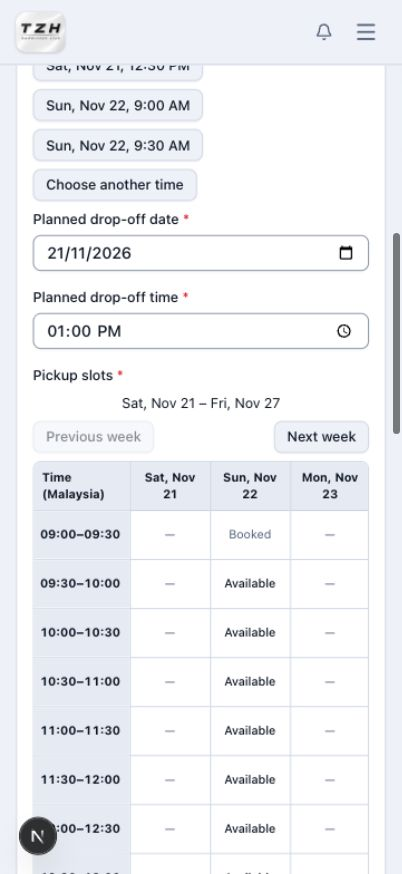
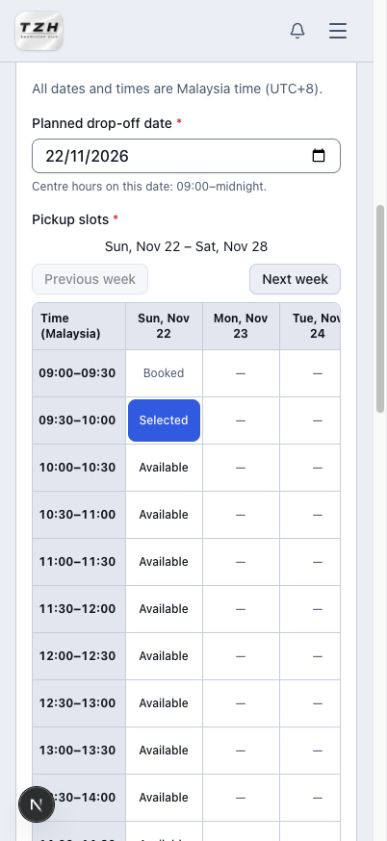
docs: show date-only drop-off and opening hours

diff --git a/website/customer-stringing.md b/website/customer-stringing.md
@@ -44,11 +44,11 @@ If a photo is unavailable, the name and price remain selectable.
 
 ![Required specifications and grommet price](../images/stringing/customer-required-specification.png)
 
-Under **Timing**, select a **Planned drop-off**. Use **Choose another time** if you need a different drop-off. Choose one of the available **Pickup slots**, using **Next week** to see more dates. On a phone, swipe the table sideways to see later days.
+Under **Timing**, choose a **Planned drop-off date**. The opening hours for that date appear below it. Choose one of the available **Pickup slots**, using **Next week** to see more dates. On a phone, swipe the table sideways to see later days.
 
 ![Pick a 30-minute slot on a phone](../images/stringing/member-pickup-grid.jpg)
 
-Select **Submit request → Confirm request**. Once accepted, your slot reserves time to string your racket. When it’s ready, you can still collect at your planned time. Keep the reference and bring your racket at the planned drop-off time. No payment is required to submit.
+Select **Submit request → Confirm request**. Once accepted, your slot reserves time to string your racket. When it’s ready, you can still collect at your planned time. Keep the reference and bring your racket on the selected date during opening hours. No payment is required to submit.
 
 ![Review the selected slot before confirming](../images/stringing/flow-confirm-with-slot.jpg)
 
@@ -74,7 +74,7 @@ String model and tension have separate labels. A chosen string stays visible whe
 <details>
 <summary><strong>3 · Choose pickup</strong></summary>
 
-Choose any available pickup slot after your planned drop-off. Both times can be on the same day. If the slot is taken while you are filling out the form, choose another available time.
+Choose an available pickup slot for the drop-off date or a later date. For same-day pickup, bring the racket by the start of the slot. If the slot is taken while you are filling out the form, choose another available time.
 
 </details>
 

diff --git a/website/stringing.md b/website/stringing.md
@@ -19,7 +19,7 @@ For a complete example, follow [one customer visit from request through collecti
 <details>
 <summary><strong>Publish pickup availability</strong></summary>
 
-**Admin → Stringing → Pickup availability.** Set the start date, number of days, weekdays and hours. Use **7** days for one week or **14** for two, then select **Publish slots**. Check the grid and use **Next week** to see later dates. Staff and members can choose from the same 30-minute slots. Enter the range and select **Close slots** to stop new reservations in it. Existing pickups stay on the timetable. For same-day stringing, publish a slot that starts after the customer’s drop-off.
+**Admin → Stringing → Pickup availability.** Set the start date, number of days, weekdays and hours. Use **7** days for one week or **14** for two, then select **Publish slots**. Check the grid and use **Next week** to see later dates. Staff and members can choose from the same 30-minute slots. Enter the range and select **Close slots** to stop new reservations in it. Existing pickups stay on the timetable. For same-day stringing, publish a slot on the drop-off date. The customer should bring the racket by the start of their slot.
 
 ![Publishing two weeks of pickup slots](../images/stringing/pickup-availability-grid.jpg)
 

diff --git a/website/stringing-complete-visit.md b/website/stringing-complete-visit.md
@@ -9,7 +9,7 @@ Follow a fictional visit from request to collection, feedback and the next restr
 <details>
 <summary><strong>1 · Customer submits a request</strong></summary>
 
-Open **Request stringing**. Enter the racket model and choose a planned drop-off. When the pickup grid is available, choose a published half-hour slot. See [Request and track stringing](customer-stringing.md) for the pickup steps and availability.
+Open **Request stringing**. Enter the racket model and choose a **Planned drop-off date**. Check the opening hours displayed below it. When the pickup grid is available, choose a published half-hour slot. See [Request and track stringing](customer-stringing.md) for the pickup steps and availability.
 Choose a listed string and select **18–34 lbs** or **Needs advice** for tension (awaiting deployment). Add other preferences
 in **Special instructions**. Fields marked **\*** are required.
 

diff --git a/changelog/2026-11-16.md b/changelog/2026-11-16.md
@@ -23,3 +23,5 @@
 - [Browse pickup weeks on a phone and change the selected string with the keyboard](../website/customer-stringing.md). Awaiting deployment.
 
 - [Use published slots for same-day stringing](../website/customer-stringing.md). Awaiting deployment.
+
+- [Choose a drop-off date and see the opening hours for that day](../website/customer-stringing.md). Awaiting deployment.
